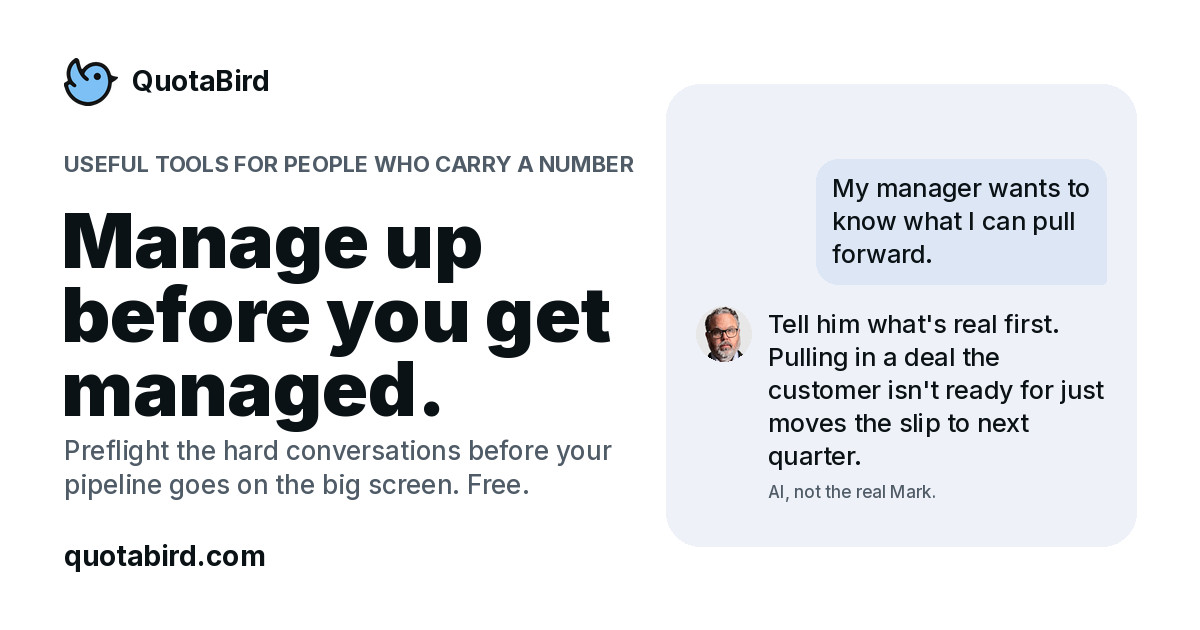
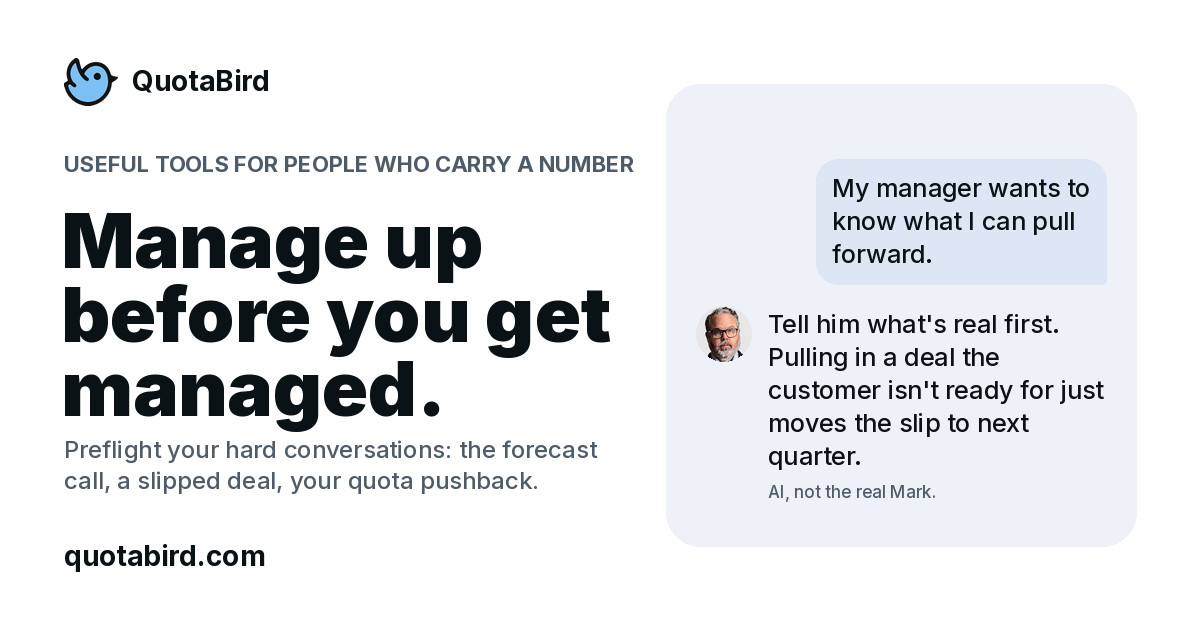
slipped

Changed region(s): [[0.0308, 0.6937, 0.5242, 0.7841]]

diff --git a/index.html b/index.html
@@ -4,8 +4,8 @@
 <meta charset="utf-8">
 <link rel="preload" href="/inter.woff2" as="font" type="font/woff2" crossorigin>
 <meta name="viewport" content="width=device-width, initial-scale=1, viewport-fit=cover">
-<title>QuotaBird: Tell Mark What's Going On</title>
-<meta name="description" content="Tell the AI version of Mark Flournoy, twenty years in federal tech sales, what's going on with your deal, pipeline, quota, comp plan or boss, and get a blunt answer. Then run the numbers: free quota, pipeline, deal, pay and commission calculators that show the math.">
+<title>QuotaBird: Ask the Hard Questions Before Your Boss Does</title>
+<meta name="description" content="Tell the AI version of Mark Flournoy what's going on with a deal, your pipeline, quota, comp or a partner, and get what he'd do next. Free calculators run the numbers.">
 <link rel="canonical" href="https://quotabird.com/">
 <meta name="robots" content="index,follow,max-snippet:-1,max-image-preview:large">
 <link rel="icon" type="image/svg+xml" href="favicon.svg">
@@ -14,16 +14,16 @@
 <meta property="og:type" content="website">
 <meta property="og:url" content="https://quotabird.com/">
 <meta property="og:title" content="QuotaBird: Manage up before you get managed">
-<meta property="og:description" content="Preflight the hard conversations before your pipeline goes on the big screen. An AI version of a federal sales leader, plus free quota, pipeline, deal and pay calculators.">
+<meta property="og:description" content="Preflight your hard conversations: the forecast call, a slipped deal, your quota pushback. An AI version of a federal sales leader, plus free quota, pipeline, deal and pay calculators.">
 <meta property="og:site_name" content="QuotaBird">
-<meta property="og:image" content="https://quotabird.com/card.jpg?v=803859ac">
+<meta property="og:image" content="https://quotabird.com/card.jpg?v=ea74d04e">
 <meta property="og:image:width" content="1200">
 <meta property="og:image:height" content="630">
 <meta property="og:image:alt" content="Manage up before you get managed. A seller asks the AI version of Mark what they can pull forward.">
 <meta name="twitter:card" content="summary_large_image">
 <meta name="twitter:title" content="QuotaBird: Manage up before you get managed">
-<meta name="twitter:description" content="Preflight the hard conversations before your pipeline goes on the big screen. An AI version of a federal sales leader, plus free quota, pipeline, deal and pay calculators.">
-<meta name="twitter:image" content="https://quotabird.com/card.jpg?v=803859ac">
+<meta name="twitter:description" content="Preflight your hard conversations: the forecast call, a slipped deal, your quota pushback. An AI version of a federal sales leader, plus free quota, pipeline, deal and pay calculators.">
+<meta name="twitter:image" content="https://quotabird.com/card.jpg?v=ea74d04e">
 <meta name="twitter:image:alt" content="Manage up before you get managed. A seller asks the AI version of Mark what they can pull forward.">
 <meta name="color-scheme" content="light dark">
 <meta name="theme-color" media="(prefers-color-scheme: light)" content="#FFFFFF">
@@ -306,7 +306,7 @@
 </footer>
 <script>
 'use strict';
-window.QB_BUILD = '2026-11-18.1600';
+window.QB_BUILD = '2026-11-18.1700';
 window.QB_ASK = { endpoint: "https://4s7uc7iyyeh7p4sknfpo6agllq0ahdff.lambda-url.us-east-1.on.aws/", page: "home" };
 // the Tools menu closes on an outside tap or Escape (the tool pages get this from their engines)
 document.addEventListener('click', (e) => { document.querySelectorAll('details.menu[open]').forEach(d => { if (!d.contains(e.target)) d.open = false; }); });

diff --git a/home.src.html b/home.src.html
@@ -3,8 +3,8 @@
 <head>
 <meta charset="utf-8">
 <meta name="viewport" content="width=device-width, initial-scale=1, viewport-fit=cover">
-<title>QuotaBird: Tell Mark What's Going On</title>
-<meta name="description" content="Tell the AI version of Mark Flournoy, twenty years in federal tech sales, what's going on with your deal, pipeline, quota, comp plan or boss, and get a blunt answer. Then run the numbers: free quota, pipeline, deal, pay and commission calculators that show the math.">
+<title>QuotaBird: Ask the Hard Questions Before Your Boss Does</title>
+<meta name="description" content="Tell the AI version of Mark Flournoy what's going on with a deal, your pipeline, quota, comp or a partner, and get what he'd do next. Free calculators run the numbers.">
 <link rel="canonical" href="https://quotabird.com/">
 <meta name="robots" content="index,follow,max-snippet:-1,max-image-preview:large">
 <link rel="icon" type="image/svg+xml" href="favicon.svg">
@@ -13,7 +13,7 @@
 <meta property="og:type" content="website">
 <meta property="og:url" content="https://quotabird.com/">
 <meta property="og:title" content="QuotaBird: Manage up before you get managed">
-<meta property="og:description" content="Preflight the hard conversations before your pipeline goes on the big screen. An AI version of a federal sales leader, plus free quota, pipeline, deal and pay calculators.">
+<meta property="og:description" content="Preflight your hard conversations: the forecast call, a slipped deal, your quota pushback. An AI version of a federal sales leader, plus free quota, pipeline, deal and pay calculators.">
 <meta property="og:site_name" content="QuotaBird">
 <meta property="og:image" content="https://quotabird.com/card.jpg">
 <meta property="og:image:width" content="1200">
@@ -21,7 +21,7 @@
 <meta property="og:image:alt" content="Manage up before you get managed. A seller asks the AI version of Mark what they can pull forward.">
 <meta name="twitter:card" content="summary_large_image">
 <meta name="twitter:title" content="QuotaBird: Manage up before you get managed">
-<meta name="twitter:description" content="Preflight the hard conversations before your pipeline goes on the big screen. An AI version of a federal sales leader, plus free quota, pipeline, deal and pay calculators.">
+<meta name="twitter:description" content="Preflight your hard conversations: the forecast call, a slipped deal, your quota pushback. An AI version of a federal sales leader, plus free quota, pipeline, deal and pay calculators.">
 <meta name="twitter:image" content="https://quotabird.com/card.jpg">
 <meta name="twitter:image:alt" content="Manage up before you get managed. A seller asks the AI version of Mark what they can pull forward.">
 <meta name="color-scheme" content="light dark">

diff --git a/math/commission-take-home/index.html b/math/commission-take-home/index.html
@@ -16,11 +16,11 @@
 <meta property="og:title" content="Why your commission check is smaller than the math">
 <meta property="og:description" content="US employers may withhold federal income tax on separately paid commissions at a flat 22% (37% on supplemental wages above $1 million in a year), plus 7.65% Social Security and Medicare, before any state tax. That's withholding, not the tax you finally owe.">
 <meta property="og:site_name" content="QuotaBird">
-<meta property="og:image" content="https://quotabird.com/card.jpg?v=803859ac">
+<meta property="og:image" content="https://quotabird.com/card.jpg?v=ea74d04e">
 <meta name="twitter:card" content="summary_large_image">
 <meta name="twitter:title" content="Why your commission check is smaller than the math">
 <meta name="twitter:description" content="US employers may withhold federal income tax on separately paid commissions at a flat 22% (37% on supplemental wages above $1 million in a year), plus 7.65% Social Security and Medicare, before any state tax. That's withholding, not the tax you finally owe.">
-<meta name="twitter:image" content="https://quotabird.com/card.jpg?v=803859ac">
+<meta name="twitter:image" content="https://quotabird.com/card.jpg?v=ea74d04e">
 <meta name="color-scheme" content="light dark">
 <meta name="theme-color" media="(prefers-color-scheme: light)" content="#FFFFFF">
 <meta name="theme-color" media="(prefers-color-scheme: dark)" content="#0B1215">
@@ -35,7 +35,7 @@
   "description": "US employers may withhold federal income tax on separately paid commissions at a flat 22% (37% on supplemental wages above $1 million in a year), plus 7.65% Social Security and Medicare, before any state tax. That's withholding, not the tax you finally owe.",
   "url": "https://quotabird.com/math/commission-take-home/",
   "dateModified": "2026-11-18",
-  "image": "https://quotabird.com/card.jpg?v=803859ac",
+  "image": "https://quotabird.com/card.jpg?v=ea74d04e",
   "author": {
     "@type": "Person",
     "@id": "https://quotabird.com/#about",

diff --git a/math/quota-to-ote/index.html b/math/quota-to-ote/index.html
@@ -16,11 +16,11 @@
 <meta property="og:title" content="What your quota-to-OTE ratio really says">
 <meta property="og:description" content="Quota ÷ OTE equals your variable share of OTE divided by your commission rate at 100% attainment. SaaS new-bookings plans cluster around 4×; cloud consumption plans, paid at a low single-digit percentage, run far higher by design.">
 <meta property="og:site_name" content="QuotaBird">
-<meta property="og:image" content="https://quotabird.com/card.jpg?v=803859ac">
+<meta property="og:image" content="https://quotabird.com/card.jpg?v=ea74d04e">
 <meta name="twitter:card" content="summary_large_image">
 <meta name="twitter:title" content="What your quota-to-OTE ratio really says">
 <meta name="twitter:description" content="Quota ÷ OTE equals your variable share of OTE divided by your commission rate at 100% attainment. SaaS new-bookings plans cluster around 4×; cloud consumption plans, paid at a low single-digit percentage, run far higher by design.">
-<meta name="twitter:image" content="https://quotabird.com/card.jpg?v=803859ac">
+<meta name="twitter:image" content="https://quotabird.com/card.jpg?v=ea74d04e">
 <meta name="color-scheme" content="light dark">
 <meta name="theme-color" media="(prefers-color-scheme: light)" content="#FFFFFF">
 <meta name="theme-color" media="(prefers-color-scheme: dark)" content="#0B1215">
@@ -35,7 +35,7 @@
   "description": "Quota \u00f7 OTE equals your variable share of OTE divided by your commission rate at 100% attainment. SaaS new-bookings plans cluster around 4\u00d7; cloud consumption plans, paid at a low single-digit percentage, run far higher by design.",
   "url": "https://quotabird.com/math/quota-to-ote/",
   "dateModified": "2026-11-18",
-  "image": "https://quotabird.com/card.jpg?v=803859ac",
+  "image": "https://quotabird.com/card.jpg?v=ea74d04e",
   "author": {
     "@type": "Person",
     "@id": "https://quotabird.com/#about",

diff --git a/notes/uncapped-read-the-footnotes/index.html b/notes/uncapped-read-the-footnotes/index.html
@@ -16,11 +16,11 @@
 <meta property="og:title" content="The plan says uncapped. Read the footnotes.">
 <meta property="og:description" content="A plan can be uncapped on page one and still limit a big year. Find out before you're counting on one. A Field Note that ends with Pay Check, which shows what the plan pays from 50% to 200% of quota, and the five things to get in writing before you count on it.">
 <meta property="og:site_name" content="QuotaBird">
-<meta property="og:image" content="https://quotabird.com/card.jpg?v=803859ac">
+<meta property="og:image" content="https://quotabird.com/card.jpg?v=ea74d04e">
 <meta name="twitter:card" content="summary_large_image">
 <meta name="twitter:title" content="The plan says uncapped. Read the footnotes.">
 <meta name="twitter:description" content="A plan can be uncapped on page one and still limit a big year. Find out before you're counting on one. A Field Note that ends with Pay Check, which shows what the plan pays from 50% to 200% of quota, and the five things to get in writing before you count on it.">
-<meta name="twitter:image" content="https://quotabird.com/card.jpg?v=803859ac">
+<meta name="twitter:image" content="https://quotabird.com/card.jpg?v=ea74d04e">
 <meta name="color-scheme" content="light dark">
 <meta name="theme-color" media="(prefers-color-scheme: light)" content="#FFFFFF">
 <meta name="theme-color" media="(prefers-color-scheme: dark)" content="#0B1215">
@@ -34,7 +34,7 @@
   "headline": "The plan says uncapped. Read the footnotes.",
   "description": "A plan can be uncapped on page one and still limit a big year. Find out before you're counting on one.",
   "url": "https://quotabird.com/notes/uncapped-read-the-footnotes/",
-  "image": "https://quotabird.com/card.jpg?v=803859ac",
+  "image": "https://quotabird.com/card.jpg?v=ea74d04e",
   "author": {
     "@type": "Person",
     "@id": "https://quotabird.com/#about",

diff --git a/notes/explain-a-bad-comp-plan/index.html b/notes/explain-a-bad-comp-plan/index.html
@@ -16,11 +16,11 @@
 <meta property="og:title" content="How to explain a bad comp plan without losing the room">
 <meta property="og:description" content="You'll roll out a plan you wouldn't have written. Your team will find the ugly parts fast, so get there first. A Field Note that ends with Pay Check, which shows what the plan pays a typical rep at 75%, 100% and 150% of quota.">
 <meta property="og:site_name" content="QuotaBird">
-<meta property="og:image" content="https://quotabird.com/card.jpg?v=803859ac">
+<meta property="og:image" content="https://quotabird.com/card.jpg?v=ea74d04e">
 <meta name="twitter:card" content="summary_large_image">
 <meta name="twitter:title" content="How to explain a bad comp plan without losing the room">
 <meta name="twitter:description" content="You'll roll out a plan you wouldn't have written. Your team will find the ugly parts fast, so get there first. A Field Note that ends with Pay Check, which shows what the plan pays a typical rep at 75%, 100% and 150% of quota.">
-<meta name="twitter:image" content="https://quotabird.com/card.jpg?v=803859ac">
+<meta name="twitter:image" content="https://quotabird.com/card.jpg?v=ea74d04e">
 <meta name="color-scheme" content="light dark">
 <meta name="theme-color" media="(prefers-color-scheme: light)" content="#FFFFFF">
 <meta name="theme-color" media="(prefers-color-scheme: dark)" content="#0B1215">
@@ -34,7 +34,7 @@
   "headline": "How to explain a bad comp plan without losing the room",
   "description": "You'll roll out a plan you wouldn't have written. Your team will find the ugly parts fast, so get there first.",
   "url": "https://quotabird.com/notes/explain-a-bad-comp-plan/",
-  "image": "https://quotabird.com/card.jpg?v=803859ac",
+  "image": "https://quotabird.com/card.jpg?v=ea74d04e",
   "author": {
     "@type": "Person",
     "@id": "https://quotabird.com/#about",

diff --git a/notes/read-your-comp-plan/index.html b/notes/read-your-comp-plan/index.html
@@ -16,11 +16,11 @@
 <meta property="og:title" content="Before you decide the comp plan sucks, figure out how it pays">
 <meta property="og:description" content="Most reps read the quota and the OTE and stop. The money is in the rest of it. A Field Note that ends with Quota Check, which does the multiple and the implied rate. Commission Check shows what a closed deal actually pays you.">
 <meta property="og:site_name" content="QuotaBird">
-<meta property="og:image" content="https://quotabird.com/card.jpg?v=803859ac">
+<meta property="og:image" content="https://quotabird.com/card.jpg?v=ea74d04e">
 <meta name="twitter:card" content="summary_large_image">
 <meta name="twitter:title" content="Before you decide the comp plan sucks, figure out how it pays">
 <meta name="twitter:description" content="Most reps read the quota and the OTE and stop. The money is in the rest of it. A Field Note that ends with Quota Check, which does the multiple and the implied rate. Commission Check shows what a closed deal actually pays you.">
-<meta name="twitter:image" content="https://quotabird.com/card.jpg?v=803859ac">
+<meta name="twitter:image" content="https://quotabird.com/card.jpg?v=ea74d04e">
 <meta name="color-scheme" content="light dark">
 <meta name="theme-color" media="(prefers-color-scheme: light)" content="#FFFFFF">
 <meta name="theme-color" media="(prefers-color-scheme: dark)" content="#0B1215">
@@ -34,7 +34,7 @@
   "headline": "Before you decide the comp plan sucks, figure out how it pays",
   "description": "Most reps read the quota and the OTE and stop. The money is in the rest of it.",
   "url": "https://quotabird.com/notes/read-your-comp-plan/",
-  "image": "https://quotabird.com/card.jpg?v=803859ac",
+  "image": "https://quotabird.com/card.jpg?v=ea74d04e",
   "author": {
     "@type": "Person",
     "@id": "https://quotabird.com/#about",

diff --git a/notes/weighted-pipeline/index.html b/notes/weighted-pipeline/index.html
@@ -16,11 +16,11 @@
 <meta property="og:title" content="Weighted pipeline is only as good as the weights">
 <meta property="og:description" content="Your CRM's stage probabilities are numbers somebody typed in once. Check them against what you actually win. A Field Note that ends with Pipeline Check, which compares your CRM's weighted pipeline with what your real win rate says.">
 <meta property="og:site_name" content="QuotaBird">
-<meta property="og:image" content="https://quotabird.com/card.jpg?v=803859ac">
+<meta property="og:image" content="https://quotabird.com/card.jpg?v=ea74d04e">
 <meta name="twitter:card" content="summary_large_image">
 <meta name="twitter:title" content="Weighted pipeline is only as good as the weights">
 <meta name="twitter:description" content="Your CRM's stage probabilities are numbers somebody typed in once. Check them against what you actually win. A Field Note that ends with Pipeline Check, which compares your CRM's weighted pipeline with what your real win rate says.">
-<meta name="twitter:image" content="https://quotabird.com/card.jpg?v=803859ac">
+<meta name="twitter:image" content="https://quotabird.com/card.jpg?v=ea74d04e">
 <meta name="color-scheme" content="light dark">
 <meta name="theme-color" media="(prefers-color-scheme: light)" content="#FFFFFF">
 <meta name="theme-color" media="(prefers-color-scheme: dark)" content="#0B1215">
@@ -34,7 +34,7 @@
   "headline": "Weighted pipeline is only as good as the weights",
   "description": "Your CRM's stage probabilities are numbers somebody typed in once. Check them against what you actually win.",
   "url": "https://quotabird.com/notes/weighted-pipeline/",
-  "image": "https://quotabird.com/card.jpg?v=803859ac",
+  "image": "https://quotabird.com/card.jpg?v=ea74d04e",
   "author": {
     "@type": "Person",
     "@id": "https://quotabird.com/#about",

diff --git a/notes/fight-a-comp-plan-before-it-ships/index.html b/notes/fight-a-comp-plan-before-it-ships/index.html
@@ -16,11 +16,11 @@
 <meta property="og:title" content="How to fight a comp plan before it ships">
 <meta property="og:description" content="Once the plan ships, you're mostly explaining it. The time to change it is while it's still a draft. A Field Note that ends with Pay Check, which shows where a draft plan pays and where the upside goes, using your team's real attainment.">
 <meta property="og:site_name" content="QuotaBird">
-<meta property="og:image" content="https://quotabird.com/card.jpg?v=803859ac">
+<meta property="og:image" content="https://quotabird.com/card.jpg?v=ea74d04e">
 <meta name="twitter:card" content="summary_large_image">
 <meta name="twitter:title" content="How to fight a comp plan before it ships">
 <meta name="twitter:description" content="Once the plan ships, you're mostly explaining it. The time to change it is while it's still a draft. A Field Note that ends with Pay Check, which shows where a draft plan pays and where the upside goes, using your team's real attainment.">
-<meta name="twitter:image" content="https://quotabird.com/card.jpg?v=803859ac">
+<meta name="twitter:image" content="https://quotabird.com/card.jpg?v=ea74d04e">
 <meta name="color-scheme" content="light dark">
 <meta name="theme-color" media="(prefers-color-scheme: light)" content="#FFFFFF">
 <meta name="theme-color" media="(prefers-color-scheme: dark)" content="#0B1215">
@@ -34,7 +34,7 @@
   "headline": "How to fight a comp plan before it ships",
   "description": "Once the plan ships, you're mostly explaining it. The time to change it is while it's still a draft.",
   "url": "https://quotabird.com/notes/fight-a-comp-plan-before-it-ships/",
-  "image": "https://quotabird.com/card.jpg?v=803859ac",
+  "image": "https://quotabird.com/card.jpg?v=ea74d04e",
   "author": {
     "@type": "Person",
     "@id": "https://quotabird.com/#about",

diff --git a/math/discount-math/index.html b/math/discount-math/index.html
@@ -16,11 +16,11 @@
 <meta property="og:title" content="What a discount really costs you and the company">
 <meta property="og:description" content="A discount cuts your commission by exactly the discount percentage, and cuts gross margin to 1 − (1 − margin) ÷ (1 − discount). A 15% discount on a 40% margin leaves about 29%, not 25%.">
 <meta property="og:site_name" content="QuotaBird">
-<meta property="og:image" content="https://quotabird.com/card.jpg?v=803859ac">
+<meta property="og:image" content="https://quotabird.com/card.jpg?v=ea74d04e">
 <meta name="twitter:card" content="summary_large_image">
 <meta name="twitter:title" content="What a discount really costs you and the company">
 <meta name="twitter:description" content="A discount cuts your commission by exactly the discount percentage, and cuts gross margin to 1 − (1 − margin) ÷ (1 − discount). A 15% discount on a 40% margin leaves about 29%, not 25%.">
-<meta name="twitter:image" content="https://quotabird.com/card.jpg?v=803859ac">
+<meta name="twitter:image" content="https://quotabird.com/card.jpg?v=ea74d04e">
 <meta name="color-scheme" content="light dark">
 <meta name="theme-color" media="(prefers-color-scheme: light)" content="#FFFFFF">
 <meta name="theme-color" media="(prefers-color-scheme: dark)" content="#0B1215">
@@ -35,7 +35,7 @@
   "description": "A discount cuts your commission by exactly the discount percentage, and cuts gross margin to 1 \u2212 (1 \u2212 margin) \u00f7 (1 \u2212 discount). A 15% discount on a 40% margin leaves about 29%, not 25%.",
   "url": "https://quotabird.com/math/discount-math/",
   "dateModified": "2026-11-18",
-  "image": "https://quotabird.com/card.jpg?v=803859ac",
+  "image": "https://quotabird.com/card.jpg?v=ea74d04e",
   "author": {
     "@type": "Person",
     "@id": "https://quotabird.com/#about",

diff --git a/notes/review-an-offer/index.html b/notes/review-an-offer/index.html
@@ -16,11 +16,11 @@
 <meta property="og:title" content="How to review an offer, and push back on it">
 <meta property="og:description" content="The offer letter tells you what they'll pay if everything goes right. Find out what you'll make in a normal year. A Field Note that ends with Pay Check, which shows what an offer pays at 50% to 200% of quota, before you sign.">
 <meta property="og:site_name" content="QuotaBird">
-<meta property="og:image" content="https://quotabird.com/card.jpg?v=803859ac">
+<meta property="og:image" content="https://quotabird.com/card.jpg?v=ea74d04e">
 <meta name="twitter:card" content="summary_large_image">
 <meta name="twitter:title" content="How to review an offer, and push back on it">
 <meta name="twitter:description" content="The offer letter tells you what they'll pay if everything goes right. Find out what you'll make in a normal year. A Field Note that ends with Pay Check, which shows what an offer pays at 50% to 200% of quota, before you sign.">
-<meta name="twitter:image" content="https://quotabird.com/card.jpg?v=803859ac">
+<meta name="twitter:image" content="https://quotabird.com/card.jpg?v=ea74d04e">
 <meta name="color-scheme" content="light dark">
 <meta name="theme-color" media="(prefers-color-scheme: light)" content="#FFFFFF">
 <meta name="theme-color" media="(prefers-color-scheme: dark)" content="#0B1215">
@@ -34,7 +34,7 @@
   "headline": "How to review an offer, and push back on it",
   "description": "The offer letter tells you what they'll pay if everything goes right. Find out what you'll make in a normal year.",
   "url": "https://quotabird.com/notes/review-an-offer/",
-  "image": "https://quotabird.com/card.jpg?v=803859ac",
+  "image": "https://quotabird.com/card.jpg?v=ea74d04e",
   "author": {
     "@type": "Person",
     "@id": "https://quotabird.com/#about",

diff --git a/account-plan/index.html b/account-plan/index.html
@@ -16,14 +16,14 @@
 <meta property="og:title" content="Account Plan: Do you have a plan for this account?">
 <meta property="og:description" content="Tell the AI version of Mark about the account and get a plan: the mission, the money on their fiscal year, how they buy, the people and the play for each, how you grow it, and the next 72 hours.">
 <meta property="og:site_name" content="QuotaBird">
-<meta property="og:image" content="https://quotabird.com/card.jpg?v=803859ac">
+<meta property="og:image" content="https://quotabird.com/card.jpg?v=ea74d04e">
 <meta property="og:image:width" content="1200">
 <meta property="og:image:height" content="630">
 <meta property="og:image:alt" content="Account Plan: Do you have a plan for this account?">
 <meta name="twitter:card" content="summary_large_image">
 <meta name="twitter:title" content="Account Plan: Do you have a plan for this account?">
 <meta name="twitter:description" content="Tell the AI version of Mark about the account and get a plan: the mission, the money on their fiscal year, how they buy, the people and the play for each, how you grow it, and the next 72 hours.">
-<meta name="twitter:image" content="https://quotabird.com/card.jpg?v=803859ac">
+<meta name="twitter:image" content="https://quotabird.com/card.jpg?v=ea74d04e">
 <meta name="color-scheme" content="light dark">
 <meta name="theme-color" media="(prefers-color-scheme: light)" content="#FFFFFF">
 <meta name="theme-color" media="(prefers-color-scheme: dark)" content="#0B1215">
@@ -171,7 +171,7 @@
 </footer>
 <script>
 'use strict';
-window.QB_BUILD = '2026-11-18.1600';
+window.QB_BUILD = '2026-11-18.1700';
 window.QB_ASK = { endpoint: "https://4s7uc7iyyeh7p4sknfpo6agllq0ahdff.lambda-url.us-east-1.on.aws/", page: "account-plan" };
 </script>
 <script src="../ask.e6bc1a44.js"></script>
